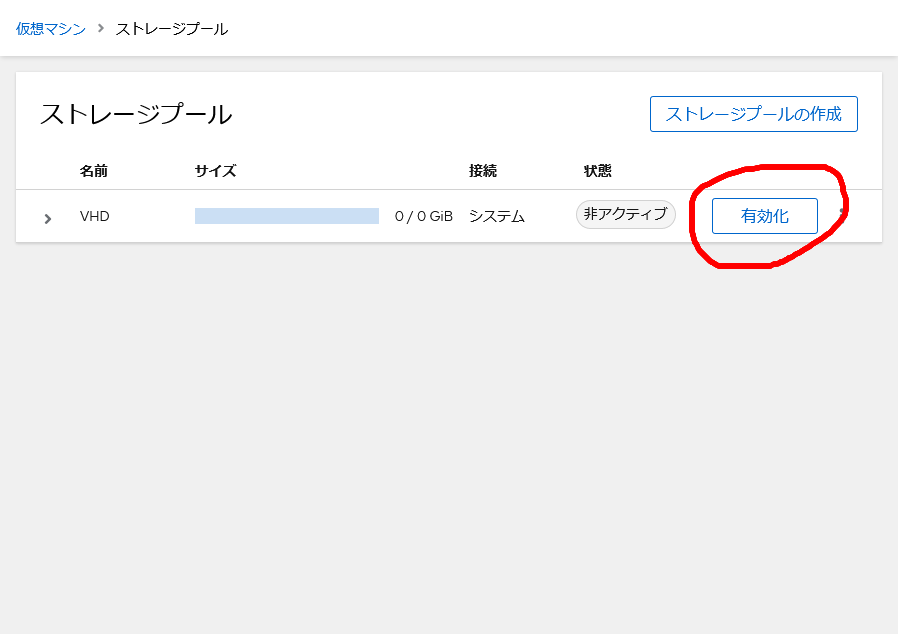
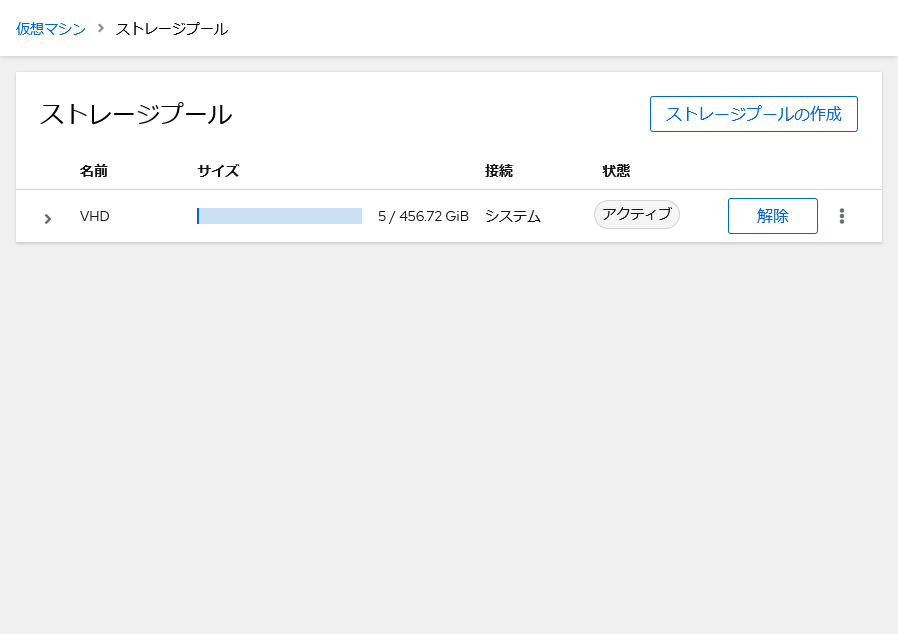
記事追加

diff --git a/_posts/2023-04-16-01.md b/_posts/2023-04-16-01.md
@@ -4,16 +4,34 @@ title: AlmaLinux 9.1で自分用のストレージサーバを構築する（KVM
 tags: Tech 自宅鯖
 ---
 
+## 関連記事
+
+1. [自宅鯖 構成メモ 2023](../../../2023/04/12/01.html)
+2. [AlmaLinux 9.1 で自分用のストレージサーバを構築する（KVM ホスト編）](../../../2023/04/16/01.html) ← イマココ
+3. AlmaLinux 9.1 で自分用のストレージサーバを構築する（VM ゲスト編）
+4. AlmaLinux 9.1 で自分用のストレージサーバを構築する（Nextcloud 編）
+5. AlmaLinux 9.1 で自分用のストレージサーバを構築する（Joplin 編）
+6. AlmaLinux 9.1 で自分用のストレージサーバを構築する（外部公開編）
+
+## 目次
+
+- 構想
+- やったこと
+
+  1.  Linux のインストール
+  2.  パッケージ更新＆最低限必要なものをインストール
+  3.  SSH でログインできるようにする。
+  4.  History コマンドで表示されるコマンドに実行時間をつける
+  5.  ソフトウェア RAID を構築する
+  6.  仮想ブリッジを作成する
+  7.  KVM と cockpit をインストールして使えるようにする
+  8.  ストレージプールの登録
+
+- 次回
+
 ## 構想
 
-自分用のストレージサービス + Evernote 的なメモアプリを動作させる自宅鯖を構築したい。
-
-- サーバ用マシン（以下: 鯖機）は旧メイン PC である DELL XPS8700 を再利用する。
-- KVM ホストの OS は AlmaLinux 9.1。
-- VM ゲストを 1 つ作成し`Nextcloud`と`Joplin`をインストールする。OS はホストと同じく AlmaLinux 9.1。
-- Nextcloud 用のストレージは HDD4 個でソフトウェア RAID を構築してそれを利用する。
-- `Cloudflare Tunnel`を利用して外部にサービスを公開する。
-- 可能な限りセキュリティを意識してみる。
+[自宅鯖 構想 2023](../../../2023/04/15/01.html)
 
 ## やったこと
 
@@ -37,7 +55,7 @@ dnf install vim rsync mlocate
 鍵の暗号化アルゴリズムに`Ed25519`を使う。  
 ssh-keygen のデフォルト暗号化アルゴリズムである`RSA`よりセキュリティに優れているらしい。
 
-```powershell
+```txt
 ssh-keygen -t ed25519
 ```
 
@@ -55,7 +73,7 @@ systemctl restart sshd
 
 クライアント側から SSH での接続テストを行う。
 
-```powershell
+```txt
 ssh root@192.168.10.xxx
 ```
 
@@ -69,7 +87,7 @@ HISTTIMEFORMAT='%Y-%m-%d %H:%M:%S '
 
 一度ログアウトしてから再度ログインし、history コマンドを実行してコマンドの実行時間が表示されていることを確認する。
 
-```shell:実行結果
+```txt
 [root@host ~]# history
     1  2023-04-12 22:54:08 df -h
     2  2023-04-12 22:54:08 blkid
@@ -96,60 +114,52 @@ p # 現在の状況を確認
 dnf install mdadm
 ```
 
-RAID 6 を構成する。
+4 個の HDD でで RAID 6 を構成する。
 
 ```shell
-mdadm --create /dev/md0 --level=6 --raid-devices=4 /dev/sd[cdef]1 # RAID 6を4つのHDDで構成する
-cat /proc/mdstat # RAIDの状態確認
+parted -l # ディスクの一覧を表示する
+mdadm --create /dev/md0 --level=6 --raid-devices=4 /dev/sd[cdef]1 # RAID6を4つのHDDで構成する
 ```
 
-### 6. 仮想ブリッチを作成する
+`cat /proc/mdstat`で RAID の状態を確認できる。  
+`resync`が完了するまで作成した RAID への操作（書き込みなど）はしない。  
+かなり時間がかかるので気長に待とう。
 
-仮想ブリッチ作成。
+```txt
+[root@host ~]# cat /proc/mdstat
+Personalities : [raid6] [raid5] [raid4]
+md0 : active raid6 sdf1[3] sde1[2] sdd1[1] sdc1[0]
+      7813769216 blocks super 1.2 level 6, 512k chunk, algorithm 2 [4/4] [UUUU]
+      [>....................]  resync =  0.0% (575356/3906884608) finish=905.2min speed=71919K/sec
+      bitmap: 30/30 pages [120KB], 65536KB chunk
+```
+
+### 6. 仮想ブリッジを作成する
+
+仮想ブリッジ作成。
 
 ```shell
-[root@host ~]# nmcli connection add type bridge con-name bridge0 ifname bridge0 # 仮想ブリッチ作成
-[root@host ~]# nmcli device status
-DEVICE   TYPE      STATE                                  CONNECTION
-enp2s0   ethernet  connected                              enp2s0
-bridge0  bridge    connecting (getting IP configuration)  bridge0
-lo       loopback  unmanaged                              --
+nmcli c add type bridge con-name bridge0 ifname bridge0
 ```
 
-仮想ブリッチに物理 NIC `enp2s0`を割り当てる。
+仮想ブリッジに物理 NIC `enp2s0`を割り当てる。
 
 ```shell
 nmcli c m enp2s0 master bridge0
 ```
 
-NIC 再起動。
+仮想ブリッジに対して適宜設定をしていく。
 
 ```shell
-nmcli c down enp2s0; nmcli c up enp2s0
-```
-
-仮想ブリッチに対して適宜設定をしていく。
-
-```shell
-nmcli c m bridge0 ipv4.method manual
-nmcli c m bridge0 ipv4.addresses '192.168.10.xxx/24'
-nmcli c m bridge0 ipv4.gateway '192.168.10.xxx'
+nmcli c m bridge0 ipv4.method manual ipv4.addresses '192.168.10.xxx/24' ipv4.gateway '192.168.10.xxx'
 nmcli c m bridge0 ipv4.dns 'xxx.xxx.xxx.xxx'
 nmcli c m bridge0 ipv6.method disabled
 ```
 
-また、物理 NIC にはインストール時に設定したネットワーク設定が残っているため一部削除しておく。  
-`ipv4.method`と`ipv4.addresses`と`ipv4.gateway`は一緒に設定を削除しないとエラーが出たので一緒に削除する。
+仮想ブリッジの起動と物理 NIC の再起動を行う。
 
 ```shell
-nmcli c m enp2s0 ipv4.method disabled ipv4.addresses "" ipv4.gateway "" ipv4.dns ""
-```
-
-仮想ブリッチの起動と物理 NIC の再起動を行う。
-
-```shell
-nmcli connection up bridge0
-nmcli c down enp2s0; nmcli c up enp2s0
+nmcli c up bridge0; nmcli c down enp2s0; nmcli c up enp2s0
 ```
 
 疎通確認などを行い問題がないことを確認する。
@@ -169,7 +179,8 @@ sudo systemctl start libvirtd
 sudo systemctl enable libvirtd
 ```
 
-cockpit をインストールする。`cockpit-machines`は cockpit で仮想マシンを扱うために必要。
+cockpit をインストールする。  
+`cockpit-machines`は cockpit で仮想マシンを扱うために必要。
 
 ```shell
 dnf install cockpit cockpit-machines
@@ -198,12 +209,12 @@ reboot
 
 設定したサービスの起動状況の確認と、cockpit の画面にアクセスできれば OK。
 
-※  
+**※ 注意**  
 この時点だと libvirtd 自動起動の設定をしたにもかからわず自動で起動しなかった。  
 念のため`journalctl`でログを確認したが特に問題なさそうだったのでとりあえずそのまま行く。  
 予想: まだ仮想マシンを作成していないから？
 
-```
+```txt
 [root@host ~]# systemctl status libvirtd
 ○ libvirtd.service - Virtualization daemon
      Loaded: loaded (/usr/lib/systemd/system/libvirtd.service; enabled; vendor preset: disabled)
@@ -231,15 +242,12 @@ URL: `http://192.168.10.xxx（ホストサーバのIPアドレス）:9090`
 仮想マシン > ストレージプール と進み、ストレージプールの作成ボタンを押す。  
 以下の画像のように入力し、作成を押す。
 
-![代替テキスト](/assets/img/blog/2023-04-16-01.png)
+![画像1](/assets/img/blog/2023-04-16-01.png)
 
-ストレージプール画面に戻るので、作成したストレージプールを有効化する。
-
-![代替テキスト](/assets/img/blog/2023-04-16-02.png)
-
+ストレージプール画面に戻るので、作成したストレージプールを有効化する。  
 状態が「アクティブ」になっていれば OK。
 
-![代替テキスト](/assets/img/blog/2023-04-16-03.png)
+![画像2](/assets/img/blog/2023-04-16-02.png)
 
 ## 次回
 

diff --git a/_posts/2023-04-12-01.md b/_posts/2023-04-12-01.md
@@ -1,19 +1,27 @@
----
+---ブリッチ
 layout: post
-title: 自宅鯖 構成メモ
+title: 自宅鯖 構成メモ 2023
 tags: Tech 自宅鯖
 ---
 
+## 関連記事
+
+1. [自宅鯖 構成メモ 2023](../../../2023/04/12/01.html) ← イマココ
+2. [AlmaLinux 9.1 で自分用のストレージサーバを構築する（KVM ホスト編）](../../../2023/04/16/01.html)
+3. AlmaLinux 9.1 で自分用のストレージサーバを構築する（VM ゲスト編）
+4. AlmaLinux 9.1 で自分用のストレージサーバを構築する（Nextcloud 編）
+5. AlmaLinux 9.1 で自分用のストレージサーバを構築する（Joplin 編）
+6. AlmaLinux 9.1 で自分用のストレージサーバを構築する（外部公開編）
+
+## 目次
+
+- 構想
+- 構成メモ
+- 次回
+
 ## 構想
 
-自分用のストレージサービス + Evernote 的なメモアプリを動作させる自宅鯖を構築したい。
-
-- サーバ用マシンは旧メイン PC である DELL XPS8700 を再利用する。
-- KVM ホストの OS は AlmaLinux 9.1。
-- VM ゲストを 1 つ作成し`Nextcloud`と`Joplin`をインストールする。OS はホストと同じく AlmaLinux 9.1。
-- Nextcloud 用のストレージは HDD4 個でソフトウェア RAID を構築してそれを利用する。
-- `Cloudflare Tunnel`を利用して外部にサービスを公開する。
-- 可能な限りセキュリティを意識してみる。
+[自宅鯖 構想 2023](../../../2023/04/15/01.html)
 
 ## 構成メモ
 
@@ -32,4 +40,5 @@ tags: Tech 自宅鯖
 
 ## 次回
 
-セットアップしていきます。
+セットアップしていきます。  
+[AlmaLinux 9.1 で自分用のストレージサーバを構築する（KVM ホスト編）](../../../2023/04/16/01.html)

diff --git a/_posts/2023-04-15-01.md b/_posts/2023-04-15-01.md
@@ -1,0 +1,25 @@
+---
+layout: post
+title: 自宅鯖 構想 2023
+tags: Tech 自宅鯖
+---
+
+## 関連記事
+
+1. [自宅鯖 構成メモ 2023](../../../2023/04/12/01.html)
+2. [AlmaLinux 9.1 で自分用のストレージサーバを構築する（KVM ホスト編）](../../../2023/04/16/01.html)
+3. AlmaLinux 9.1 で自分用のストレージサーバを構築する（VM ゲスト編）
+4. AlmaLinux 9.1 で自分用のストレージサーバを構築する（Nextcloud 編）
+5. AlmaLinux 9.1 で自分用のストレージサーバを構築する（Joplin 編）
+6. AlmaLinux 9.1 で自分用のストレージサーバを構築する（外部公開編）
+
+## 構想
+
+自分用のストレージサービス + Evernote 的なメモアプリを動作させる自宅鯖を構築したい。
+
+- サーバ用マシンは旧メイン PC である DELL XPS8700 を再利用する。
+- KVM ホストの OS は AlmaLinux 9.1。
+- VM ゲストを 1 つ作成し`Nextcloud`と`Joplin`をインストールする。OS はホストと同じく AlmaLinux 9.1。
+- Nextcloud 用のストレージは HDD4 個でソフトウェア RAID を構築してそれを利用する。
+- `Cloudflare Tunnel`を利用して外部にサービスを公開する。
+- 可能な限りセキュリティを意識してみる。
